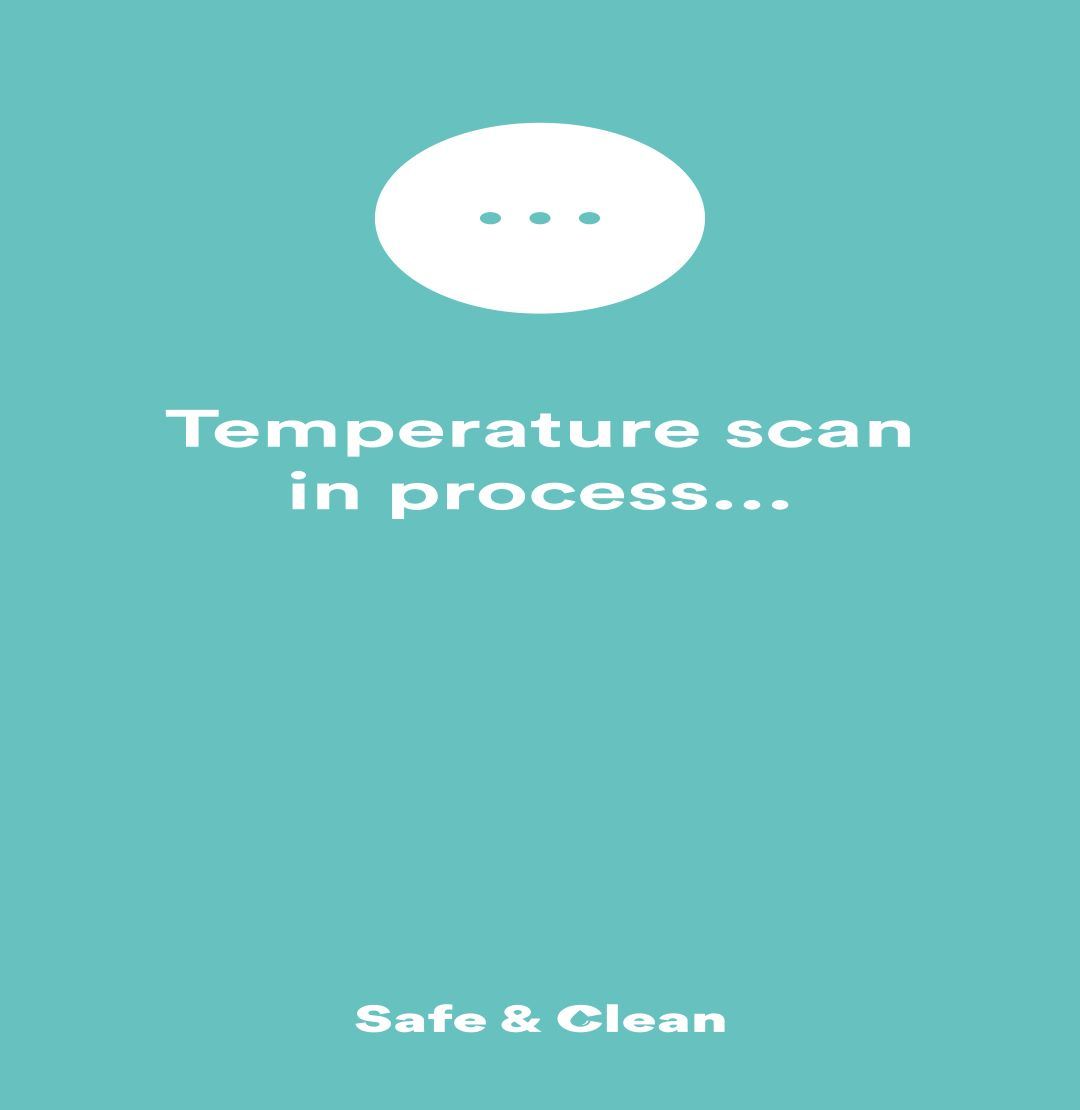
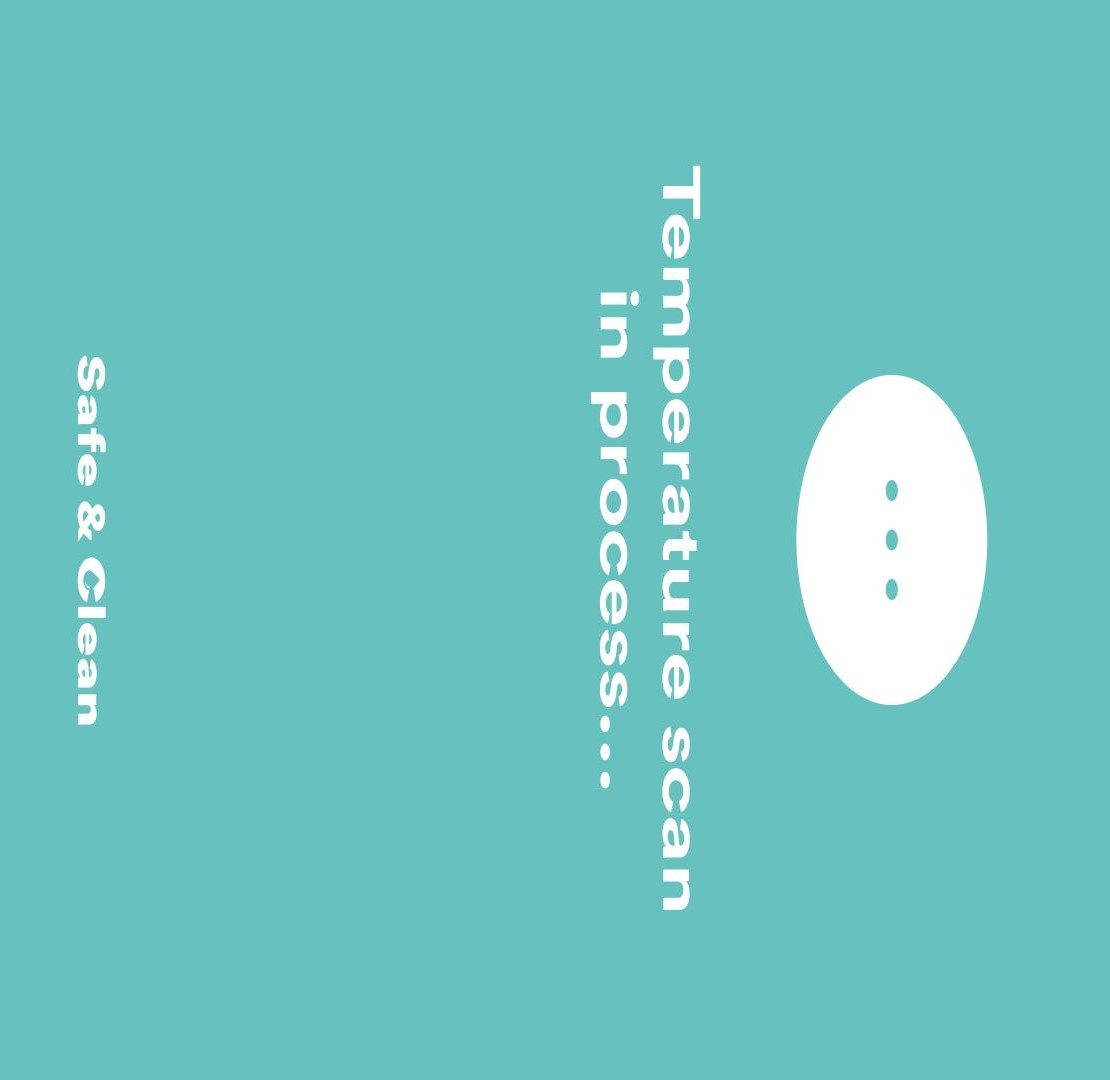
Slides

diff --git a/SACOnScreenDisplay/DisplayMixer.py b/SACOnScreenDisplay/DisplayMixer.py
@@ -54,7 +54,7 @@ class DisplayMixer(object):
         img_RGBA = cv.merge((r_channel, g_channel, b_channel, alpha_channel))
 
         #print("slide size: " + str(slide.shape))
-        slide = np.full([1080, 1110, 4], 200, dtype=np.uint8)
+        #slide = np.full([1080, 1110, 4], 200, dtype=np.uint8)
         start = int(round(time.time() * 1000))
         self.shm.write(np.hstack((img_RGBA, slide)))
         print("Show took: " + str(int(round(time.time() * 1000)) - start) + "ms")
